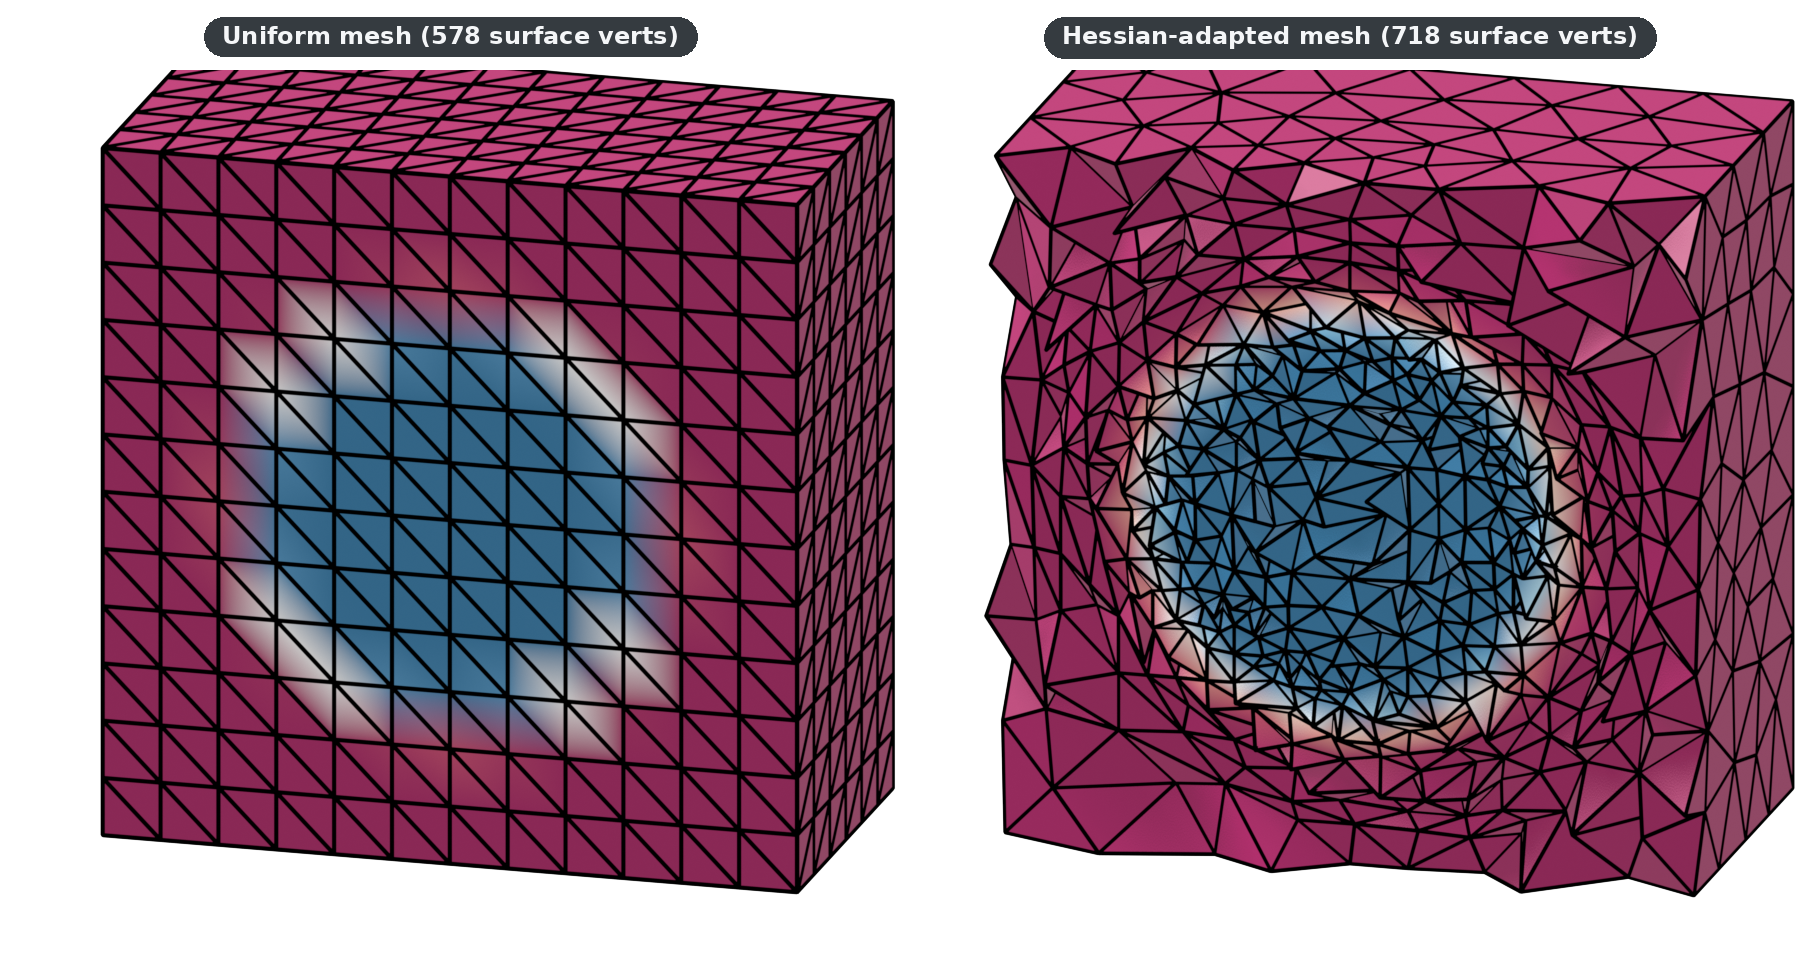
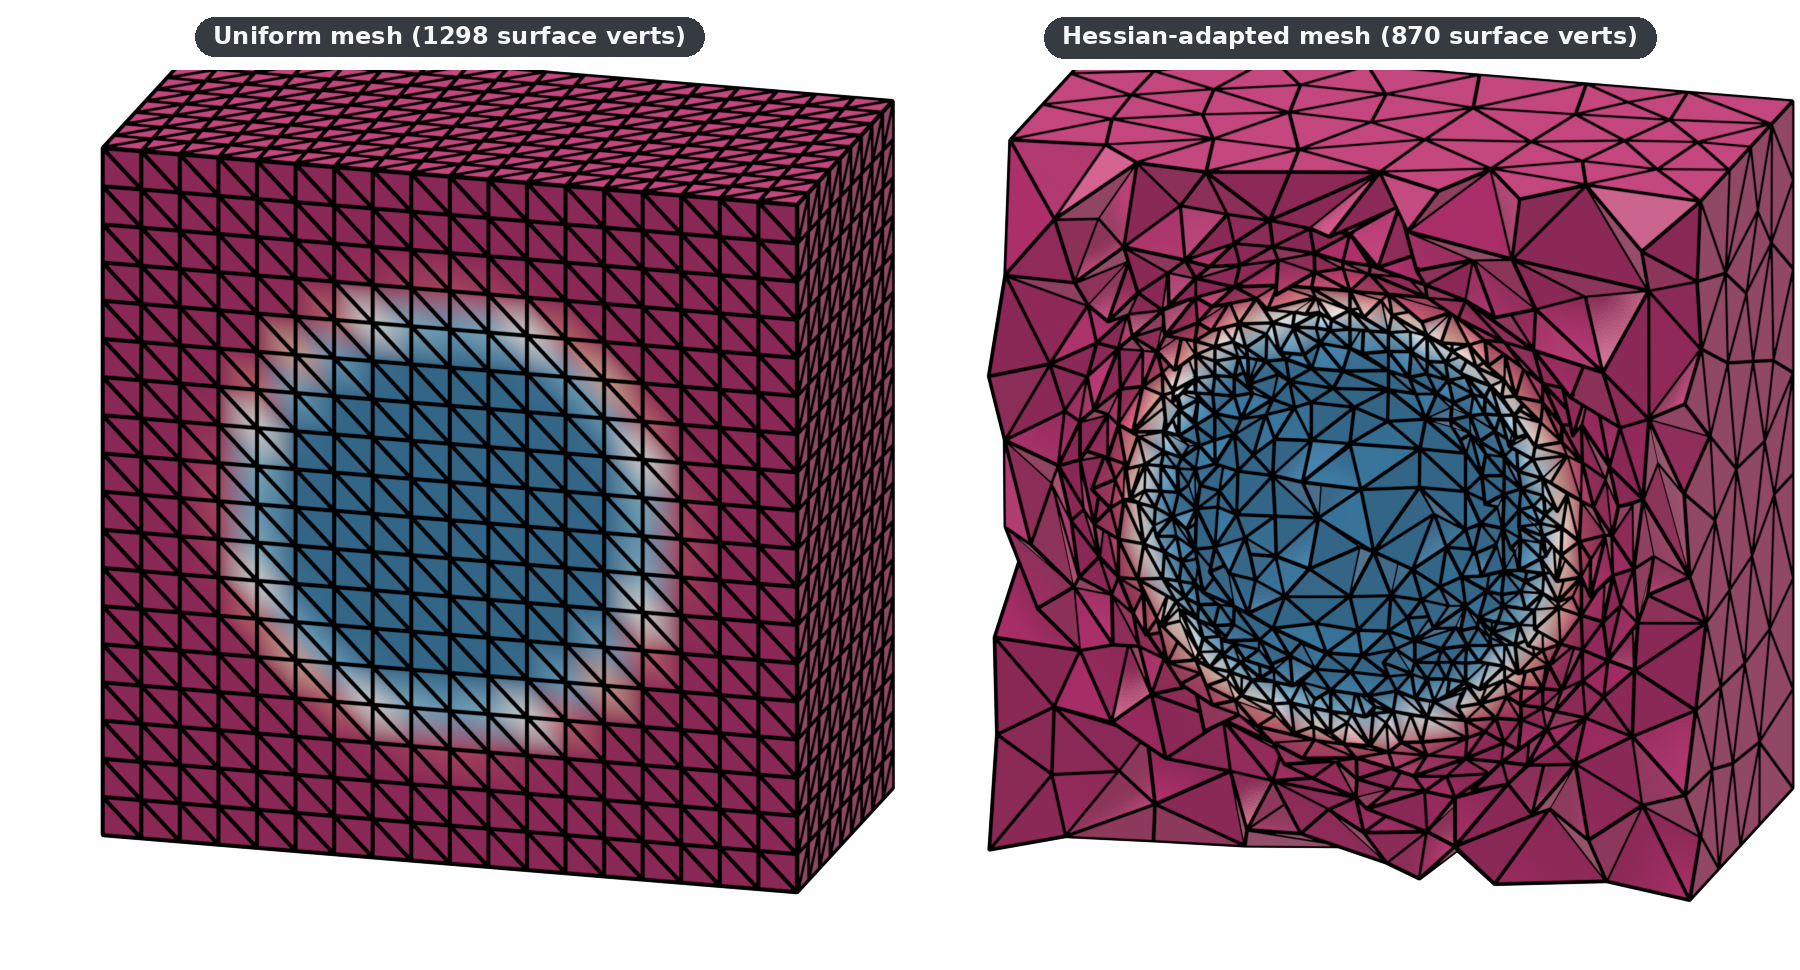
docs: bump 3D Hessian render to a 19^3 grid for finer detail

diff --git a/examples/mmg3d/hessian_adaptation.py b/examples/mmg3d/hessian_adaptation.py
@@ -38,7 +38,7 @@ import mmgpy  # noqa: F401  -- registers the .mmg accessor
 from mmgpy.metrics import compute_hessian, create_metric_from_hessian
 
 
-def make_unit_cube(n: int = 13) -> tuple[np.ndarray, np.ndarray]:
+def make_unit_cube(n: int = 19) -> tuple[np.ndarray, np.ndarray]:
     """Tetrahedralized unit cube on [0, 1]^3 with a regular n^3 grid."""
     rg = pv.RectilinearGrid(
         np.linspace(0.0, 1.0, n),